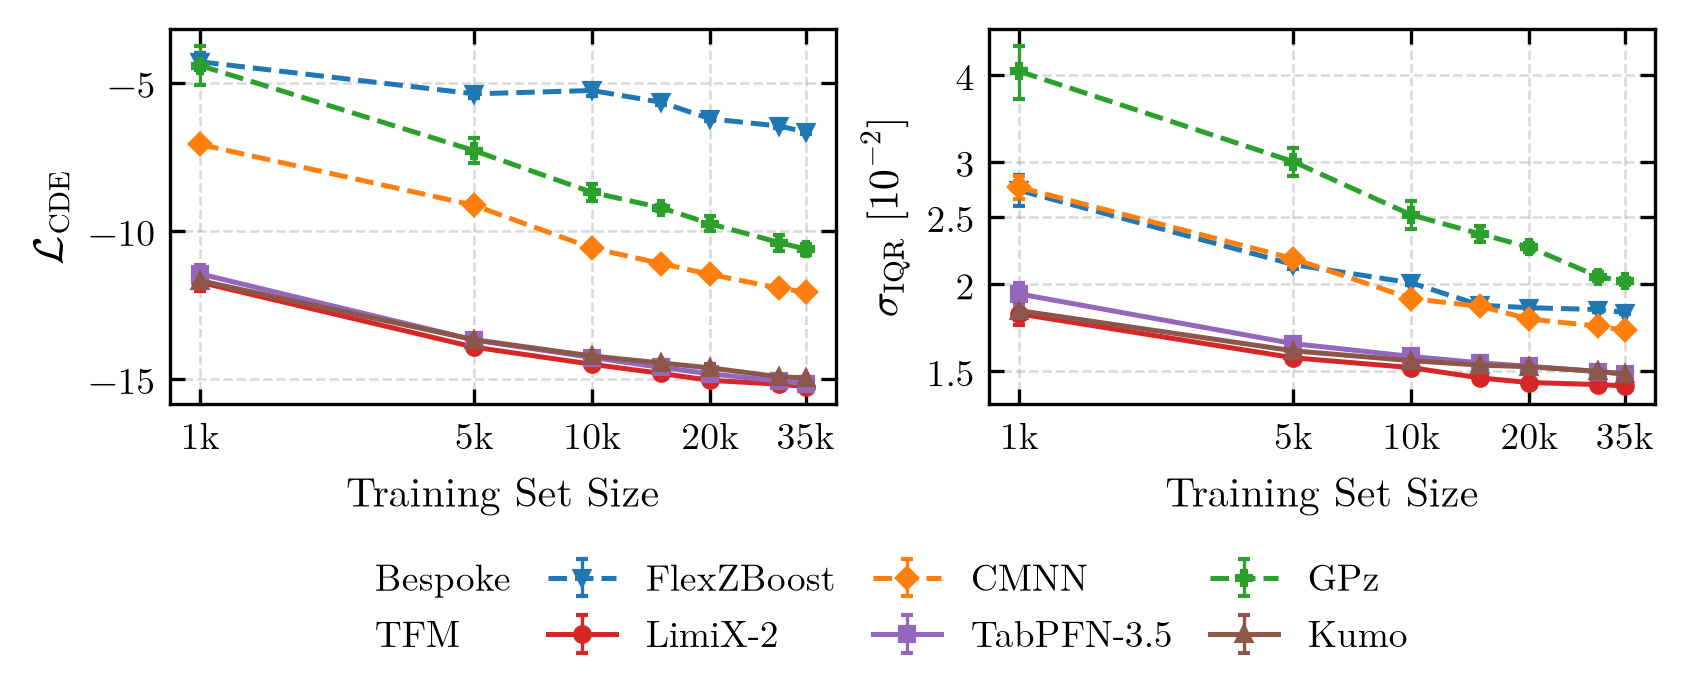
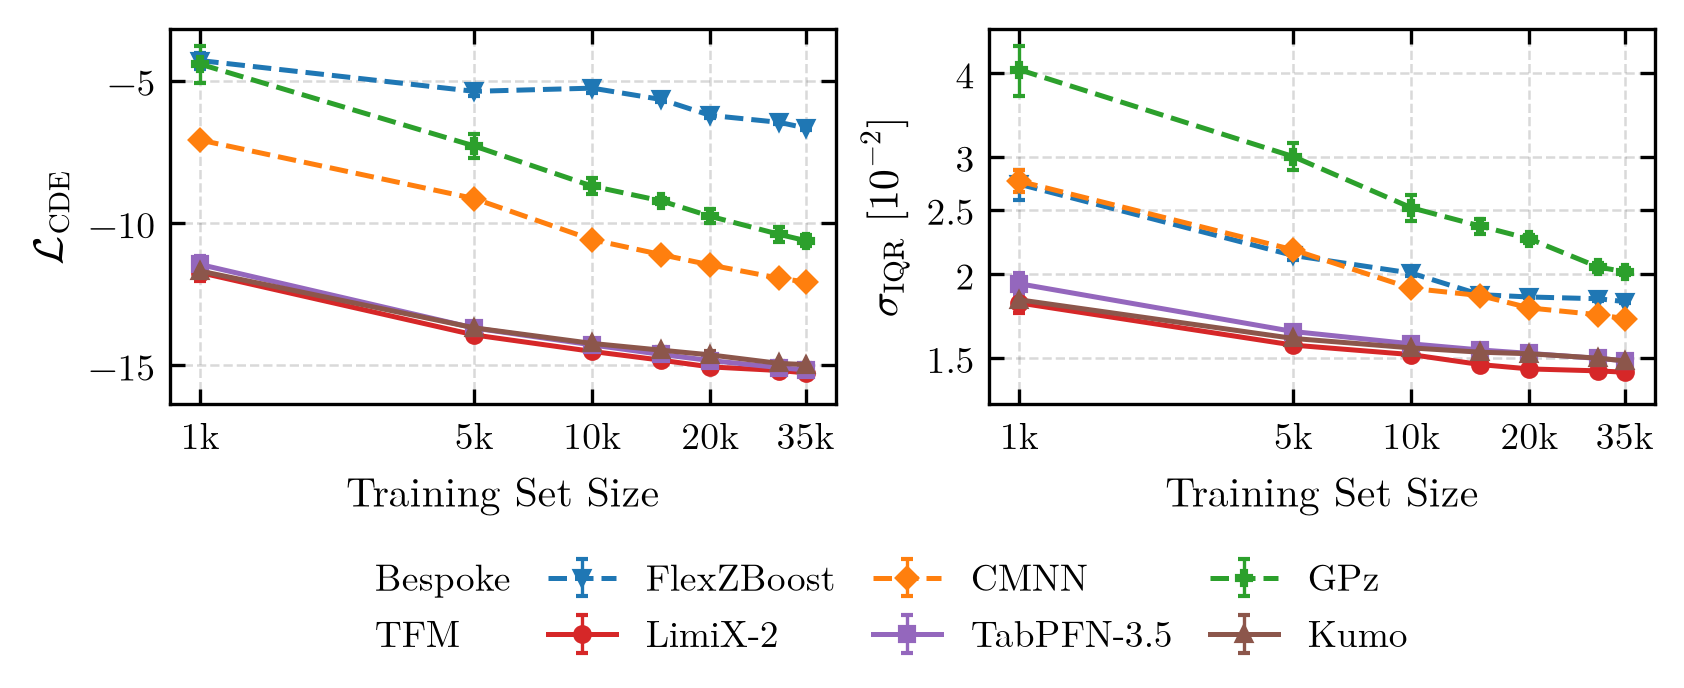
Leave room below the scaling curves' lowest points

diff --git a/analysis/scaling.py b/analysis/scaling.py
@@ -224,6 +224,12 @@ def scaling_figure(table: pd.DataFrame, regime: str) -> plt.Figure:
     axes[1].yaxis.set_major_formatter(ticker.FormatStrFormatter("%g"))
     axes[1].yaxis.set_minor_formatter(ticker.NullFormatter())
     axes[1].set_ylabel(r"$\sigma_{\rm IQR}$ [$10^{-2}$]")
+    # A little room below the lowest points, so the full-size points
+    # clear the bottom ticks (in log units on the scatter panel).
+    low, high = axes[0].get_ylim()
+    axes[0].set_ylim(low - 0.04 * (high - low), high)
+    low, high = axes[1].get_ylim()
+    axes[1].set_ylim(low * (low / high) ** 0.04, high)
     handles, labels = legend_entries(axes[0])
     fig.legend(
         handles,
